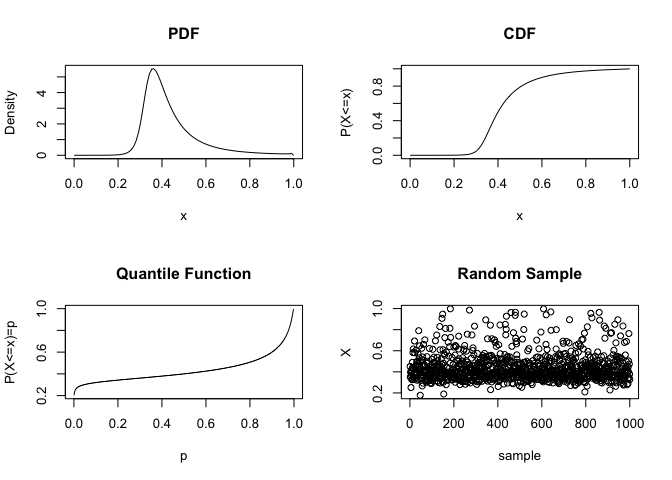
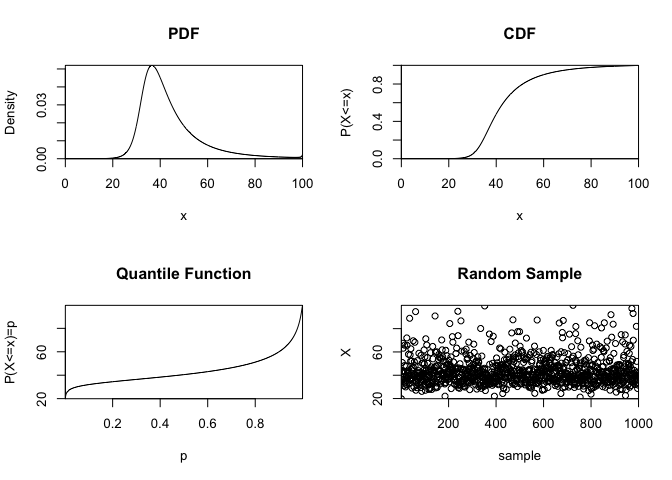
update readme for cran release

diff --git a/README.md b/README.md
@@ -42,12 +42,17 @@ this way the need for curve fitting can be eliminated.
 
 ## Installation
 
-The `rjqpd` package is not yet available on CRAN.
-
-You can install the latest development version of `rjqpd` using:
+Install the released version from [CRAN](https://CRAN.R-project.org)
+with:
 
 ``` r
-devtools::install_github("bobbyingram/rjqpd")
+install.packages("rjqpd")
+```
+
+Install the development version from [GitHub](https://github.com/) with:
+
+``` r
+remotes::install_github("bobbyingram/rjqpd")
 ```
 
 ## Basic Usage
@@ -74,8 +79,8 @@ library(rjqpd)
 # alpha = 0.1 indicates a symmetric percentile triplet (SPT) of (0.1, 0.5, 0.9)
 alpha <- 0.1
 # we parameterise using some quantile values corresponding to the SPT above.
-quantiles <- c(0.32, 0.40, 0.60)
-params <- jqpd(quantiles, lower = 0, upper = 1, alpha = alpha)
+quantiles <- c(32, 40.5, 60)
+params <- jqpd(quantiles, lower = 0, upper = 100, alpha = alpha)
 
 # The CDF should return the (SPT) at the quantile values:
 pjqpd(quantiles, params)
@@ -108,25 +113,25 @@ We also provide some basic summary statistics functions:
 
 ``` r
 jqpd_mean(params)
-#> [1] 0.4350185
+#> [1] 43.71438
 ```
 
 ``` r
 jqpd_var(params)
-#> [1] 0.01604665
+#> [1] 155.1076
 ```
 
 ``` r
 jqpd_sd(params)
-#> [1] 0.1266754
+#> [1] 12.45422
 ```
 
 ``` r
 jqpd_skewness(params)
-#> [1] 1.69221
+#> [1] 1.585366
 ```
 
 ``` r
 jqpd_kurtosis(params)
-#> [1] 6.464129
+#> [1] 6.14006
 ```
